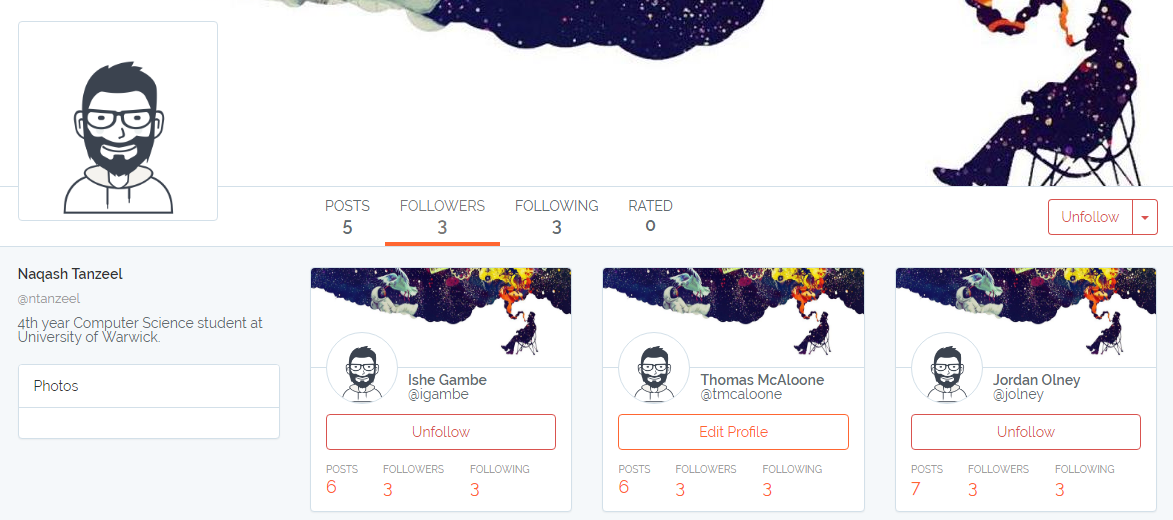
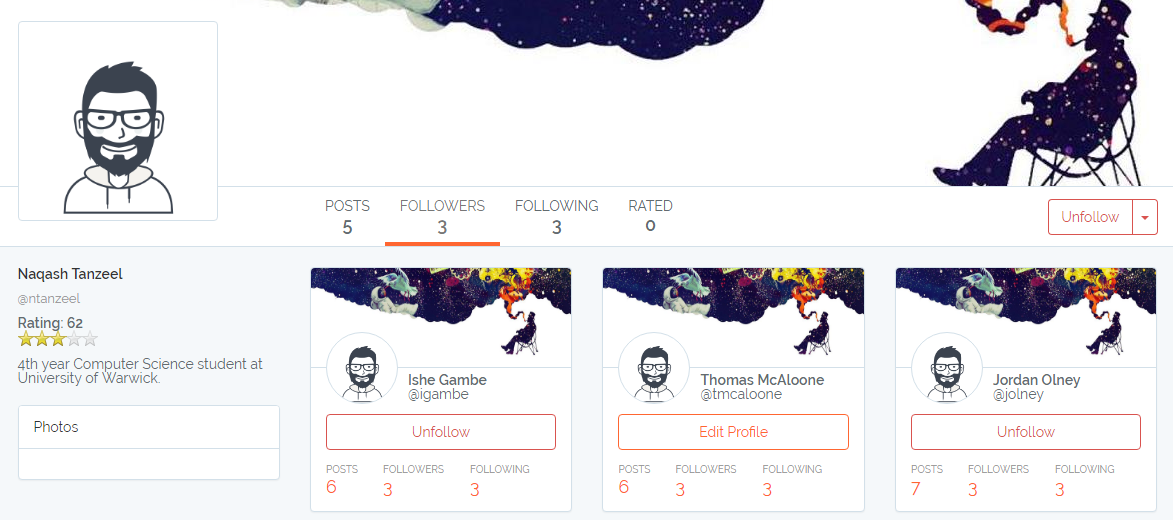
Added bits to design and implementation for Reputation Display on profile page

Changed region(s): [[0.0, 0.6154, 0.2455, 0.8308]]

diff --git a/Chapters/5.Design/UserInterface.tex b/Chapters/5.Design/UserInterface.tex
@@ -152,7 +152,7 @@ Notifications are a key component to communication on social media platforms. No
 \end{figure}
 
 \subsection{Profile}
-The user profile page (shown in figure \ref{fig:user_profile}) is designed to allow the user to see all of their activity and public information related to their account (Name, bio etc.). The user will also be able to view the profiles of other users, creating yet another avenue for discovering new content, as well as nurturing user-to-user interactions across the platform. Along the top of the page one can see the users' profile photo and cover photo, a feature which will allow a user some expression to aid in building a user's personal presence on the platform. If the current page belongs to the user viewing it, the user will be able to change their profile or cover photo by clicking and icon that will appear when the cursor hovers over either image. Below the user's profile we can see some personal information related to the user. Here we also see a widget of photos that the user has uploaded. In the centre of the page we see a post feed which will display content the user can interact with. The content displayed will be based upon which tab the user currently has selected. These tabs can be seen directly above the post feed. The posts tab will display all of the posts created by the user to whom the page belongs. The rated tab will display a history of all the posts that the user has rated (up-voted or down-voted). The follower and following tabs will display a list of all of the other users that this user follows, or is followed by respectively. The trending widget on the right of the page will show all of the tags currently trending across the platform. Finally there is a button on the right side of the page which changes depending on to whom the page belongs. If the current page is being viewed by its owner, the user will be given a prompt to edit their profile, in case there is any information they want to add, update or remove. If the profile page being viewed is owned by someone who is not the user, the user will be given the opportunity to follow, unfollow or block the user who owns this page.
+The user profile page (shown in figure \ref{fig:user_profile}) is designed to allow the user to see all of their activity and public information related to their account (Name, bio etc.). Here there will also be a display of the user's reputation to give an immediate indication of trustworthiness for this user and their content. The user will also be able to view the profiles of other users, creating yet another avenue for discovering new content, as well as nurturing user-to-user interactions across the platform. Along the top of the page one can see the users' profile photo and cover photo, a feature which will allow a user some expression to aid in building a user's personal presence on the platform. If the current page belongs to the user viewing it, the user will be able to change their profile or cover photo by clicking and icon that will appear when the cursor hovers over either image. Below the user's profile we can see some personal information related to the user. Here we also see a widget of photos that the user has uploaded. In the centre of the page we see a post feed which will display content the user can interact with. The content displayed will be based upon which tab the user currently has selected. These tabs can be seen directly above the post feed. The posts tab will display all of the posts created by the user to whom the page belongs. The rated tab will display a history of all the posts that the user has rated (up-voted or down-voted). The follower and following tabs will display a list of all of the other users that this user follows, or is followed by respectively. The trending widget on the right of the page will show all of the tags currently trending across the platform. Finally there is a button on the right side of the page which changes depending on to whom the page belongs. If the current page is being viewed by its owner, the user will be given a prompt to edit their profile, in case there is any information they want to add, update or remove. If the profile page being viewed is owned by someone who is not the user, the user will be given the opportunity to follow, unfollow or block the user who owns this page.
 
 \begin{figure}[H]
 \centering

diff --git a/Chapters/6.Implementation/UserInterface.tex b/Chapters/6.Implementation/UserInterface.tex
@@ -332,6 +332,25 @@ If the page being viewed belongs to the user, rather than having the option to f
 \label{fig:ProfilePicUpload}
 \end{figure}
 
+The reputation of a given user is visualised on this page in one of two ways, depending on the settings of the user viewing the page. On the settings page a used can choose to set their reputation display to either `Bar' or `Stars' in the network settings section. In order to decide which of these displays to load, the $User$ model is consulted to find the setting that this user has set for reputation display. Figure \ref{fig:ReputationRatings} shows the two displays for user reputation. In order to decide which of these displays to load, the $User$ model is consulted to find the setting that this user has set for reputation display. Firstly we have a bar which displays the user's reputation as a fraction of the highest reputation in the system (100). The bar displayed is a bootstrap component which uses the page user's reputation to set the size of the bar. We also have the star display, which again takes the user's reputation and uses it to generate a star rating out of 5, a fairly universal rating system online today. The star rating is displayed using two images, the first a background row of grey stars which are overlapped by the second image, a row of gold stars. The user reputation is used to determine how many stars are to be displayed. The front image is then cropped accordingly to give the effect that only that number of stars are `filled'. This process is handled using a jquery function when the profile page is first loaded.
+
+\begin{figure}[H]
+\centering
+\begin{subfigure}[b]{.4\linewidth}
+	\includegraphics[height=1.5in]{Images/Implementation/RatingBar}
+	\caption{}
+	\label{fig:RatingBar}
+\end{subfigure}
+\begin{subfigure}[b]{.5\linewidth}
+	\centering
+	\includegraphics[height=1.5in]{Images/Implementation/RatingStars}
+	\caption{}
+	\label{fig:RatingStars}
+\end{subfigure}
+\caption{Rating displays: (a) Bar display and (b) Stars display}
+\label{fig:ReputationRatings}
+\end{figure}
+
 \subsubsection{User activity}
 The main feature of this page is the ability to view the activity of this user. This can be done using the 4 tabs in the centre of the page: Posts, Followers, Following and Rated. Each one routes to its own page, each calling upon a different function from the \(ProfileController\).
 
